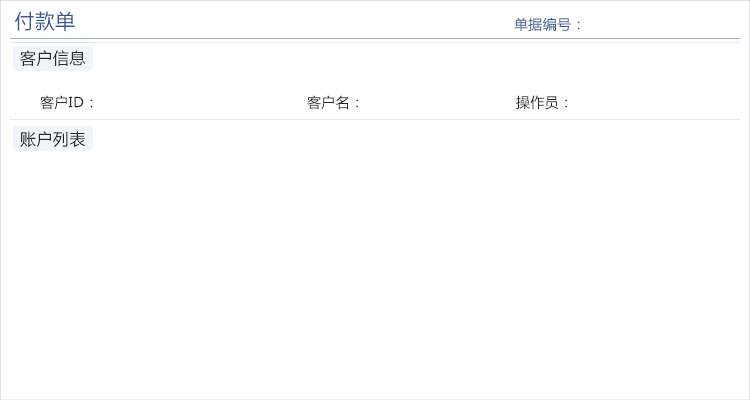
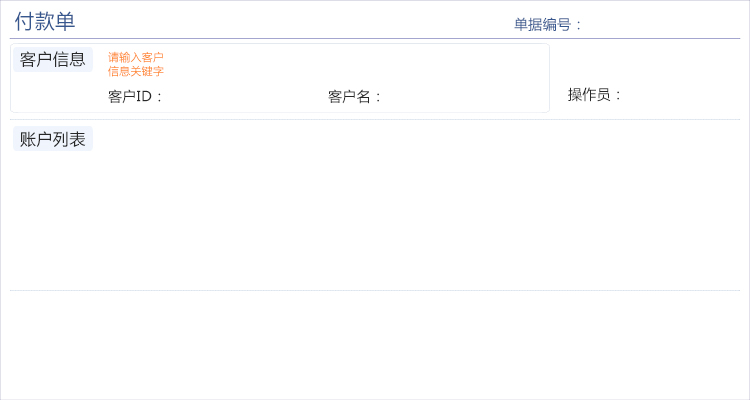
付款收款单bg和坐标~

Changed region(s): [[0.0307, 0.09, 0.7053, 0.27], [0.6747, 0.21, 0.828, 0.27], [0.3987, 0.21, 0.4907, 0.27]]

diff --git a/src/ui/paymentui/CreateReceiptPanel.java b/src/ui/paymentui/CreateReceiptPanel.java
@@ -109,17 +109,6 @@ public class CreateReceiptPanel extends JPanel implements FuzzySearch, CreatePan
 		this.documentIdLab = new MyLabel(pcfg.getLabels().element("documentidlab"));
 		// TODO
 		this.documentIdLab.setText("ID");
-		this.add(new MyLabel(pcfg.getLabels().element("title")));
-		this.add(new MyLabel(pcfg.getLabels().element("documentid")));
-		this.add(new MyLabel(pcfg.getLabels().element("customerid")));
-		this.add(new MyLabel(pcfg.getLabels().element("customerinfo")));
-		this.add(new MyLabel(pcfg.getLabels().element("customername")));
-		this.add(new MyLabel(pcfg.getLabels().element("customeridlab")));
-		this.add(new MyLabel(pcfg.getLabels().element("customernamelab")));
-		this.add(new MyLabel(pcfg.getLabels().element("tip")));
-		this.add(new MyLabel(pcfg.getLabels().element("list")));
-		this.add(new MyLabel(pcfg.getLabels().element("title")));
-		this.add(new MyLabel(pcfg.getLabels().element("operator")));
 		this.add(this.operatorLab);
 		this.add(this.documentIdLab);
 		this.add(this.customerIdLab);

diff --git a/src/ui/paymentui/CreatePaymentPanel.java b/src/ui/paymentui/CreatePaymentPanel.java
@@ -109,7 +109,6 @@ public class CreatePaymentPanel extends JPanel implements FuzzySearch, CreatePan
 		this.documentIdLab = new MyLabel(pcfg.getLabels().element("documentidlab"));
 		// TODO
 		this.documentIdLab.setText("ID");
-		this.add(new MyLabel(pcfg.getLabels().element("tip")));
 		this.add(this.operatorLab);
 		this.add(this.documentIdLab);
 		this.add(this.customerIdLab);
